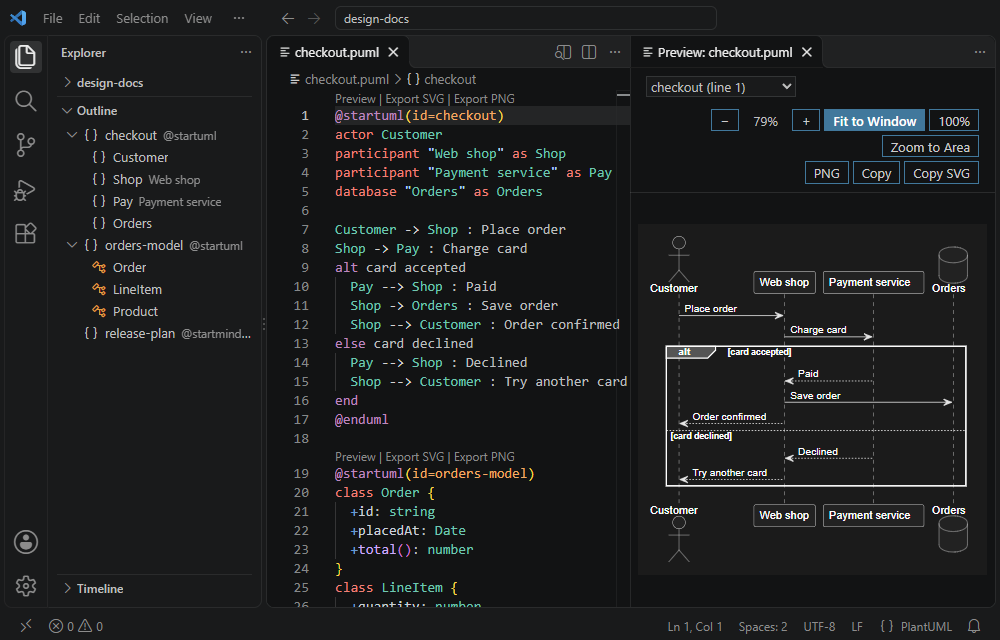
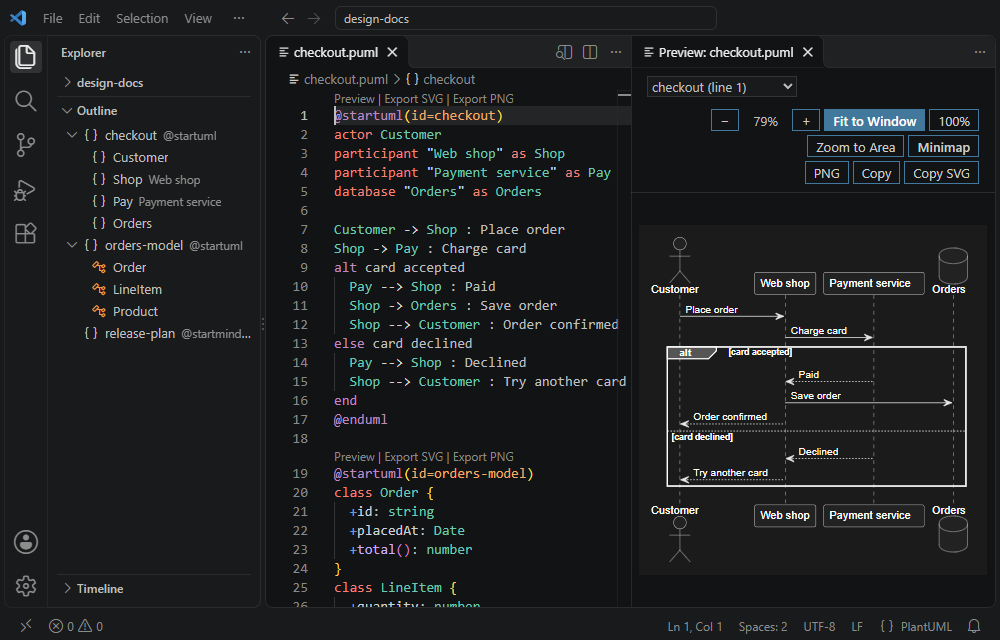
chore(release): 0.22.0
Releases 0.22.0: the PlantUML file preview gains an optional minimap.
For a diagram larger than the panel, it shows the whole diagram with the
part in view outlined, and a click moves the view there at the current
zoom. Three templates insert a C4 system context, a C4 container diagram
or Azure Functions and Storage, drawn with the bundled libraries. The
preview also stays on the diagram it shows when diagrams before it move
or share its ID, and Insert Diagram Template says when the template was
not inserted.

A minor version, as features are added; VS Code's floor stays at 1.144.
No bundled dependency moves: the packages built into the VSIX resolve to
the same versions and integrity hashes as in 0.21.0, package.json moves
only development tools, and the VSIX holds the same 53 files.

The README's Features line names the Minimap, and its preview image is
taken again, with the Minimap button in the toolbar. sample.md gives the
count of templates as nineteen and names the three architecture
examples, and sample.puml says how to turn the minimap on.

diff --git a/CHANGELOG.md b/CHANGELOG.md
@@ -7,16 +7,22 @@ and this project adheres to [Semantic Versioning](https://semver.org/spec/v2.0.0
 
 ## [Unreleased]
 
+## [0.22.0] - 2026-11-25
+
 ### Added
 
-- The PlantUML file preview has an optional minimap. Click it to move around a large diagram at the current zoom.
-
-- Insert a C4 system context, C4 container, or Azure Functions and Storage example from completion or *Insert Diagram Template*. The picker also searches completion prefixes and the descriptions of these examples.
+- **The PlantUML file preview has an optional minimap.** Click it to move
+  around a large diagram at the current zoom.
+- **Insert a C4 system context, C4 container, or Azure Functions and Storage
+  example** from completion or *Insert Diagram Template*. The picker also
+  searches completion prefixes and the descriptions of these examples.
 
 ### Fixed
 
-- The PlantUML file preview follows the selected diagram when preceding diagrams move or share its ID. If editing makes the choice ambiguous, the list asks for a new selection. Copy and export use the current text of the diagram shown.
-
+- **The PlantUML file preview follows the selected diagram** when preceding
+  diagrams move or share its ID. If editing makes the choice ambiguous, the
+  list asks for a new selection. Copy and export use the current text of the
+  diagram shown.
 - **Insert Diagram Template says when the template was not inserted.** If the
   document changed after the command read it — a key typed as the picker
   closed, say — VS Code inserted nothing, and the command ended without a
@@ -1364,7 +1370,8 @@ First public release.
 - happy-dom's bundled self-signed TLS certificate (unused fetch machinery) is
   stripped from the worker bundle at build time.
 
-[Unreleased]: https://github.com/kkdev92/plantuml-local/compare/v0.21.0...HEAD
+[Unreleased]: https://github.com/kkdev92/plantuml-local/compare/v0.22.0...HEAD
+[0.22.0]: https://github.com/kkdev92/plantuml-local/compare/v0.21.0...v0.22.0
 [0.21.0]: https://github.com/kkdev92/plantuml-local/compare/v0.20.0...v0.21.0
 [0.20.0]: https://github.com/kkdev92/plantuml-local/compare/v0.19.0...v0.20.0
 [0.19.0]: https://github.com/kkdev92/plantuml-local/compare/v0.18.0...v0.19.0

diff --git a/README.md b/README.md
@@ -39,7 +39,7 @@ Your diagram source is processed locally and is not sent to a rendering service.
 ## Features
 
 - **Built-in Preview**: Diagrams appear in the same Markdown preview you already use
-- **`.puml` Files**: PlantUML files open as their own language, with folding, an outline and a preview beside the editor that zooms — to an area you mark, too, with *Zoom to Area* — scrolls to the diagram's edges with `Home` and `End`, exports PNG and copies the diagram to the clipboard, as a PNG or as SVG text
+- **`.puml` Files**: PlantUML files open as their own language, with folding, an outline and a preview beside the editor that zooms — to an area you mark, too, with *Zoom to Area* — shows the whole diagram and the current view in an optional *Minimap*, scrolls to the diagram's edges with `Home` and `End`, exports PNG and copies the diagram to the clipboard, as a PNG or as SVG text
 - **Local Includes**: `!include`, `!includesub` and `!theme … from` read shared definitions, sections and themes from the files of your workspace folder, in a trusted workspace; their paths complete, and Ctrl+Click opens the file
 - **Syntax Highlighting**: ```` ```plantuml ```` blocks and `.puml` files are coloured in the editor, following the syntax the bundled engine accepts
 - **Offline Rendering**: No Java, no PlantUML server, no network connection required — nothing to install besides the extension

diff --git a/sample.md b/sample.md
@@ -317,7 +317,7 @@ stop
 
 ## Writing a diagram
 
-In a block, suggestions open on `@` or `!` at the start of a line, on `$`, on `!theme ` and on `<&`. Outside a block, type `puml` and press `Ctrl+Space` for a whole block from one of sixteen templates, or run *PlantUML Local: Insert Diagram Template*.
+In a block, suggestions open on `@` or `!` at the start of a line, on `$`, on `!theme ` and on `<&`. Outside a block, type `puml` and press `Ctrl+Space` for a whole block from one of nineteen templates, or run *PlantUML Local: Insert Diagram Template*. Three of them are architecture examples that use the bundled libraries: `puml-c4-context`, `puml-c4-container` and `puml-azure-functions-storage`.
 
 Elsewhere in a block, `Ctrl+Space` lists what that diagram holds: its aliases with the names they show — `Shop` with `Web shop` in the block below — its words, and what it defines, as the next section shows. On a line of its own, a sequence diagram such as this one also offers snippets of `alt`, `opt`, `loop`, `par`, `ref` and `note`, and an activity diagram of `if`, `while`, `repeat` and `fork`, with their parts to tab through and, in the details of the list, what each draws.
 
